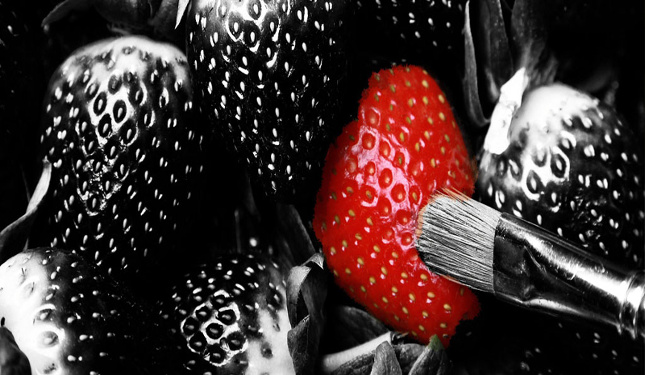
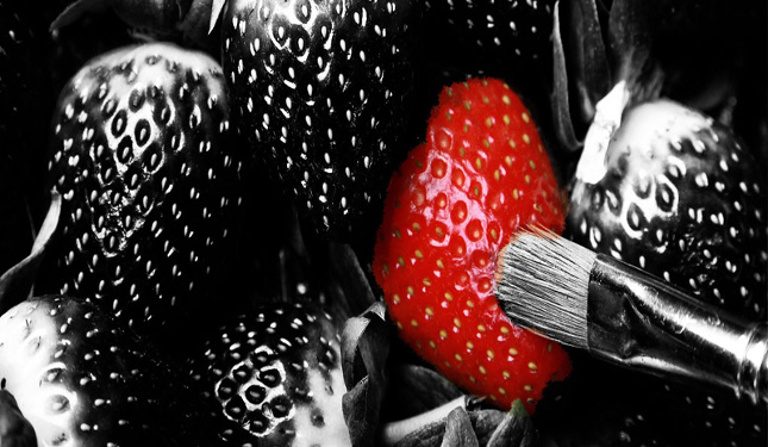
img slide

Changed region(s): [[0.6512, 0.528, 0.7752, 0.7333], [0.4031, 0.0587, 0.4341, 0.088], [0.155, 0.4987, 0.186, 0.528]]

diff --git a/themes/responsiv-flat/partials/slide.htm b/themes/responsiv-flat/partials/slide.htm
@@ -16,11 +16,11 @@ postPage = "blog/post"
   margin: 0 auto;
 }
 @media screen and (min-width: 1024px) {
-  .slide-container {
-    height:372px;
+  .flexslider .slides img {
+    vertical-align: middle;
+    height:375px;
   }
 }
-.slide-container img {vertical-align: middle;}
 .slide-container .slide-content {
   position: absolute;
   bottom: 0;
@@ -49,9 +49,9 @@ postPage = "blog/post"
     <li>
       <div class="slide-container">
         {% if post.featured_images.count %}
-          <img src="{{ post.featured_images[0].path | resize(645, 375) }}" class="img-responsive" height="100%"  />
+          <img src="{{ post.featured_images[0].path | resize(960, 639) }}" class="img-responsive"  />
         {% else %}
-          <img src="/themes/responsiv-flat/assets/images/blog/noimg-{{random(18)}}.jpg" class="img-responsive" height="100%" />
+          <img src="/themes/responsiv-flat/assets/images/blog/noimg-{{random(18)}}.jpg" class="img-responsive"/>
         {% endif %}
         <div class="slide-content">
           <span><a href="{{ post.url }}" style="color:#f1f1f1;">{{ post.title }}</a></span>
